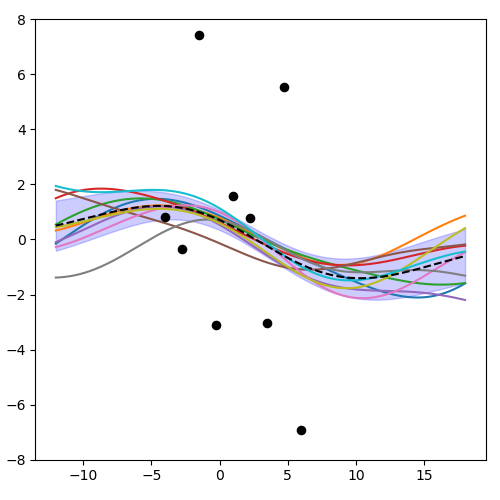
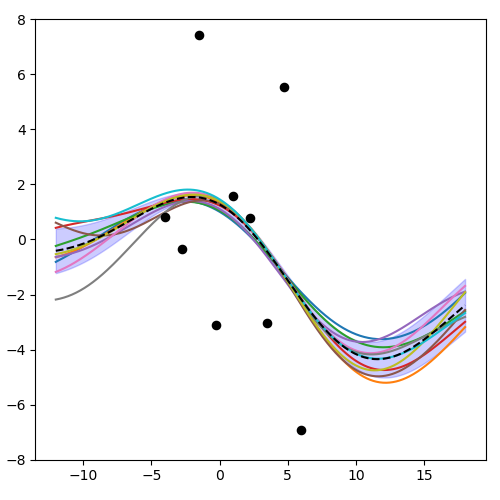
Update Q11

Changed region(s): [[0.09, 0.36, 0.93, 0.78]]

diff --git a/hw1.tex b/hw1.tex
@@ -475,8 +475,6 @@ The sample functions alters a bit compared to the prior since the strong asumpti
 on the correlation of points. In other words, the prior indicate that it is a 
 restrictive model and therefore data can not alter the model too much.
 
-
-
 \begin{figure}[h!]
   \subfloat[$l = 0.05$]{%
   \includegraphics[width=0.4\textwidth]{fig/Q10-post-l005.png}
@@ -496,6 +494,38 @@ restrictive model and therefore data can not alter the model too much.
   \caption{Sample functions, mean and variance of the prediction posterior with different length scales}
   \label{fig:Q11-predict-post}
 \end{figure}
+
+Consider the covariance matrix in the prior is:
+\begin{align*}
+  k(\mathbf{x}_i, \mathbf{x}_j) + \sigma^2\delta_{ij}
+\end{align*}
+it is equivalent to considing the sample noise. The predictive poesterior will
+move towards to the prior since the likelihood of data becomes less informative.
+
+Consider the noise is Gaussian with zero-mean and the variance is 4 (because $t_i$ is 1-d).
+The results are shown in figure \ref{fig:Q11-predict-post-noise4}.
+\begin{figure}[h!]
+  \subfloat[$l = 0.05$]{%
+  \includegraphics[width=0.4\textwidth]{fig/Q10-post-l005-nvar4.png}
+  }
+  \hfill
+  \subfloat[$l = 0.5$]{%
+  \includegraphics[width=0.4\textwidth]{fig/Q10-post-l050-nvar4.png}
+  }
+  \vskip\baselineskip
+  \subfloat[$l = 1.0$]{%
+  \includegraphics[width=0.4\textwidth]{fig/Q10-post-l100-nvar4.png}
+  }
+  \hfill
+  \subfloat[$l = 10.0$]{%
+  \includegraphics[width=0.4\textwidth]{fig/Q10-post-l1000-nvar4.png}
+  }
+  \caption{Sample functions, mean and variance of the prediction posterior with 
+           different length scales, noise variance = 4}
+  \label{fig:Q11-predict-post-noise4}
+\end{figure}
+
+
 \end{question}
 
 \begin{question}{12}
